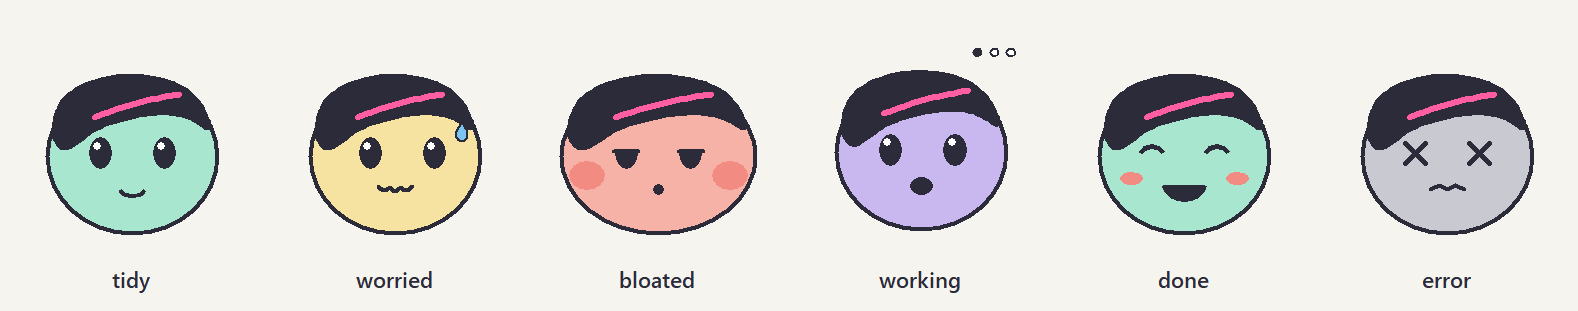
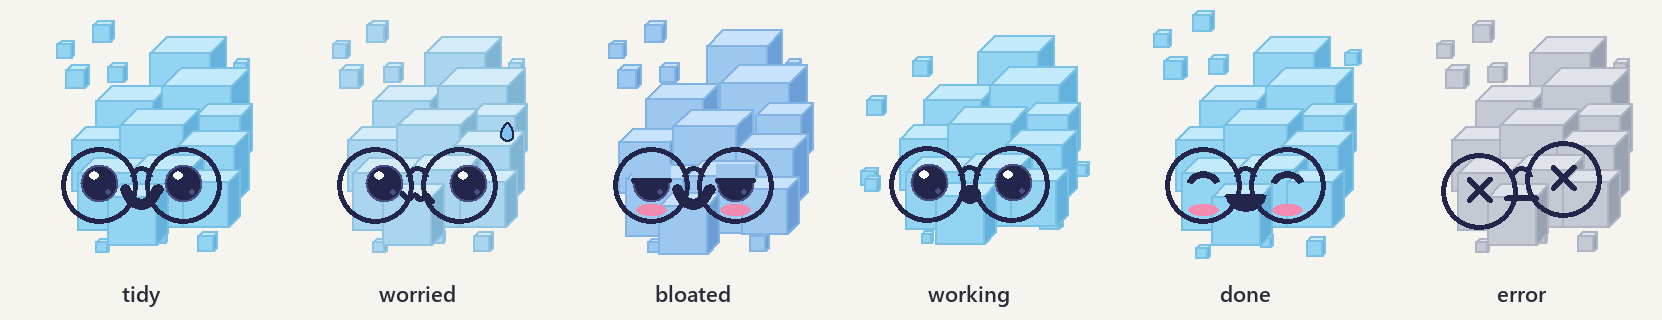
Linko is the only built-in skin; custom skins load from a .py path; README and demo images redrawn with Linko

diff --git a/memo/widget/app.py b/memo/widget/app.py
@@ -1,4 +1,4 @@
-"""Memo's desktop window: a frameless, always-on-top face.
+"""Memo's desktop window: a frameless, always-on-top Linko.
 
 Left-click: tidy the vault (safe fixes, backup first).  Drag: move.  Right-click: menu.
 The checker runs on a worker thread; results come back through a queue so only
@@ -18,9 +18,9 @@ from pathlib import Path
 
 from ..checker import Config, Report, check
 from ..fixer import fix, undo
-from . import face, linko
+from . import linko
 
-SKINS = {"memo": face, "linko": linko}
+SKINS = {"linko": linko}
 from .text import details, summarize, tidied
 
 KEY = "#ff00fe"  # painted where the window should be see-through (Windows)
@@ -39,13 +39,21 @@ def _dpi_aware() -> None:
             pass
 
 
+def load_skin(skin: str):
+    """A built-in skin by name, or your own skin module given as a path to a .py file."""
+    if skin.endswith(".py"):
+        import importlib.util
+        spec = importlib.util.spec_from_file_location("memo_custom_skin", skin)
+        module = importlib.util.module_from_spec(spec)
+        spec.loader.exec_module(module)
+        return module
+    return SKINS.get(skin, linko)
+
+
 class MemoApp:
-    def __init__(self, vault: Path, config: Config | None = None, every_min: float = 10, skin: str = "memo"):
+    def __init__(self, vault: Path, config: Config | None = None, every_min: float = 10, skin: str = "linko"):
         _dpi_aware()
-        if skin == "linko3d":  # needs Pillow + the local render, so only loaded on request
-            from . import linko3d
-            SKINS["linko3d"] = linko3d
-        self.face = SKINS.get(skin, face)
+        self.face = load_skin(skin)
         self.vault, self.config, self.every_ms = Path(vault), config or Config(), int(every_min * 60_000)
         self.root = root = tk.Tk()
         root.title("Memo")

diff --git a/tests/test_widget.py b/tests/test_widget.py
@@ -2,7 +2,7 @@ import tkinter as tk
 import unittest
 
 from memo.checker import Finding, Report
-from memo.widget import face, linko
+from memo.widget import linko
 from memo.widget.text import details, summarize
 
 
@@ -40,7 +40,7 @@ class FaceTests(unittest.TestCase):
         except tk.TclError:
             self.skipTest("no display")
         try:
-            for skin in (face, linko):
+            for skin in (linko,):
                 c = tk.Canvas(root, width=skin.SIZE, height=skin.SIZE)
                 for state in skin.STATES:
                     for t in (0.0, 0.07, 1.3, 2.9):
@@ -48,6 +48,20 @@ class FaceTests(unittest.TestCase):
                         self.assertTrue(c.find_all(), (skin.__name__, state))
         finally:
             root.destroy()
+
+
+class SkinLoadTests(unittest.TestCase):
+    def test_builtin_and_file(self):
+        import tempfile
+        from pathlib import Path
+        from memo.widget.app import load_skin
+        self.assertIs(load_skin("linko"), linko)
+        self.assertIs(load_skin("unknown"), linko)
+        with tempfile.TemporaryDirectory() as d:
+            f = Path(d) / "my_skin.py"
+            f.write_text("SIZE = 100\nSTATES = ('tidy',)\nINK = '#000'\ndef draw(c, state, t, k=1.0):\n    pass\n")
+            skin = load_skin(str(f))
+            self.assertEqual(skin.SIZE, 100)
 
 
 if __name__ == "__main__":

diff --git a/memo/__main__.py b/memo/__main__.py
@@ -32,8 +32,8 @@ def main(argv: list[str] | None = None) -> int:
     sub.add_parser("undo", parents=[common], help="restore the vault from the last fix's backup")
     p_widget = sub.add_parser("widget", parents=[common], help="show Memo on the desktop")
     p_widget.add_argument("--every", type=float, default=10, help="re-check every N minutes (0 = only on click)")
-    p_widget.add_argument("--skin", choices=["memo", "linko", "linko3d"], default=os.environ.get("MEMO_SKIN", "memo"),
-                          help="which face to show (default: $MEMO_SKIN or memo)")
+    p_widget.add_argument("--skin", default=os.environ.get("MEMO_SKIN", "linko"),
+                          help="linko (default), or a path to your own skin .py file (also $MEMO_SKIN)")
     args = parser.parse_args(argv)
     config = Config(max_words=args.max_words, max_notes_per_subject=args.max_notes)
 

diff --git a/memo/widget/__init__.py b/memo/widget/__init__.py
@@ -1,7 +1,7 @@
 """Memo's desktop character (tkinter, standard library only)."""
 
 
-def run(vault=None, config=None, every_min: float = 10, skin: str = "memo") -> None:
+def run(vault=None, config=None, every_min: float = 10, skin: str = "linko") -> None:
     from .app import MemoApp
     from ..__main__ import default_vault
 

diff --git a/memo/widget/linko.py b/memo/widget/linko.py
@@ -1,6 +1,6 @@
 """CS Linko skin: a cloud of light-blue cubes wearing round glasses.
 
-Same contract as face.py: `draw(canvas, state, t, k)`, plus SIZE, STATES and INK.
+Skin contract: `draw(canvas, state, t, k)`, plus SIZE, STATES and INK.
 Cubes are drawn as simple 3D boxes (front, top and right faces) back to front.
 """
 

diff --git a/README.md b/README.md
@@ -1,5 +1,5 @@
 <p align="center">
-  <img src="docs/memo.gif" width="200" alt="Memo, a small emo face, sweating, munching through the notes, then smiling">
+  <img src="docs/memo.gif" width="200" alt="Linko, a cloud of blue cubes with round glasses, sweating, munching through the notes, then smiling">
 </p>
 
 <h1 align="center">Memo</h1>
@@ -23,8 +23,9 @@ pile up, one subject gets split across three notes, history sections grow
 forever, links break. Nobody cleans them until the assistant starts loading a
 wall of stale text.
 
-Memo sits in the corner of your screen and shows the state of that folder on
-its face. When it starts sweating, click it.
+Memo puts Linko, the IEEE Computer Society mascot drawn as a cloud of blue
+cubes with round glasses, in the corner of your screen. Linko shows the state of
+that folder on its face. When it starts sweating, click it.
 
 ## Meet the moods
 
@@ -34,12 +35,12 @@ its face. When it starts sweating, click it.
 
 | Mood | What it means |
 |---|---|
-| **tidy** | Nothing to fix. Memo breathes slowly and blinks now and then. |
+| **tidy** | Nothing to fix. Linko floats gently and blinks now and then. |
 | **worried** | Warnings: a note over the word limit, a broken link. A sweat drop slides down. |
-| **bloated** | Real problems: leftover session files, almost empty notes, a subject split over too many notes. |
-| **working** | Munching through your notes after a click. |
+| **bloated** | Real problems: leftover session files, almost empty notes, a subject split over too many notes. The cubes puff out and the eyelids get heavy. |
+| **working** | Munching through your notes after a click while the small cubes orbit. |
 | **done** | Finished. A bubble tells you what changed. |
-| **error** | Something failed. The bubble says what. |
+| **error** | Something failed. Linko turns grey and the bubble says what. |
 
 ## What a click does
 
@@ -63,8 +64,7 @@ summary) is listed in the bubble and never touched.
 
 ## Quick start
 
-You need Python 3.11 or newer. That is all: Memo uses only the standard library
-(only the optional `linko3d` skin needs Pillow).
+You need Python 3.11 or newer. That is all: Memo uses only the standard library.
 
 ```bash
 git clone https://github.com/ademghorbel/memo.git
@@ -80,40 +80,36 @@ looks at `$MEMO_VAULT`, then `~/ClaudeVault`.
 | Action | Result |
 |---|---|
 | Click | Tidy up, check again, show what happened |
-| Drag | Move Memo anywhere on the screen |
+| Drag | Move Linko anywhere on the screen |
 | Right click | *Tidy up*, *Check only*, *What's wrong?*, *Undo last tidy*, *Open vault folder*, *Quit* |
 | Esc | Quit |
 
 Memo checks again on its own every 10 minutes. Change that with `--every 30`,
 or `--every 0` to check only when you click.
 
-### Skins
+### Your own skin
 
-| Skin | Look | Needs |
-|---|---|---|
-| `memo` (default) | the emo face, drawn with canvas shapes | nothing |
-| `linko` | CS Linko, the IEEE Computer Society mascot, drawn as a cloud of cubes with round glasses | nothing |
-| `linko3d` | a 3D render of Linko's head, animated per mood (bounce, shake, orbiting cubes, sparkles, grey on error) | [Pillow](https://pypi.org/project/pillow/) and the render PNG, path in `$MEMO_LINKO_IMAGE` |
+Linko is drawn with plain canvas shapes, no image files. To give Memo another
+look, write a Python file with a `draw(canvas, state, t, k)` function plus
+`SIZE`, `STATES` and `INK` (see `memo/widget/linko.py`), then point Memo at it:
 
 ```bash
-pythonw -m memo widget --skin linko
+pythonw -m memo widget --skin path/to/my_skin.py
 ```
 
-Set `$MEMO_SKIN` to pick a skin without the flag. The Linko render is not
-shipped in this repo.
+Set `$MEMO_SKIN` to the same path to use it without the flag.
 
 ### Desktop shortcut (Windows)
 
-To start Linko from a desktop icon, turn the render into an `.ico` with Pillow:
+Make a shortcut with target `pythonw.exe -m memo widget` and "Start in" set to
+the repo folder. For an icon, save any picture as an `.ico` with Pillow:
 
 ```bash
-python -c "from PIL import Image; Image.open('Linko.png').save('linko3d.ico', sizes=[(256,256),(64,64),(48,48),(32,32),(16,16)])"
+python -c "from PIL import Image; Image.open('linko.png').save('linko.ico', sizes=[(256,256),(64,64),(48,48),(32,32),(16,16)])"
 ```
 
-Then make a shortcut with target `pythonw.exe -m memo widget --skin linko3d`,
-"Start in" set to the repo folder, and *Change Icon* pointing at `linko3d.ico`.
-Windows caches icons by path, so if you replace the icon, give the new file a
-new name.
+and pick it with *Change Icon*. Windows caches icons by path, so if you replace
+the icon, give the new file a new name.
 
 ## Command line
 
@@ -179,18 +175,15 @@ memo/
   checker.py     reads the notes, returns a Report (findings, stats, mood)
   fixer.py       the safe fixes, backups and undo
   widget/
-    face.py      draws the face with canvas shapes, no image files
-    linko.py     the Linko skin, same drawing contract
-    linko3d.py   the Linko 3D skin (optional, Pillow)
+    linko.py     draws Linko with canvas shapes, no image files
     app.py       the window: click, drag, menu, bubble
     text.py      turns a Report into the bubble's sentences
   __main__.py    the command line
 ```
 
 The checker is the single source of truth: the terminal, the buddy and any
-future front end all read the same Report, so the face can never disagree with
-the facts. A new skin is just another module with the same `draw(canvas, state,
-t, k)` function plus `SIZE`, `STATES` and `INK`.
+future front end all read the same Report, so Linko's face can never disagree
+with the facts.
 
 ## Tests
 
@@ -205,7 +198,6 @@ The tests build their own throwaway vault, so they never touch your notes.
 * **Compact with AI (optional):** let Claude condense long summaries and merge
   split notes, always showing the change and asking first.
 * Start with the computer, remember the position, a config file.
-* More skins.
 
 Ideas and pull requests are welcome.
 
